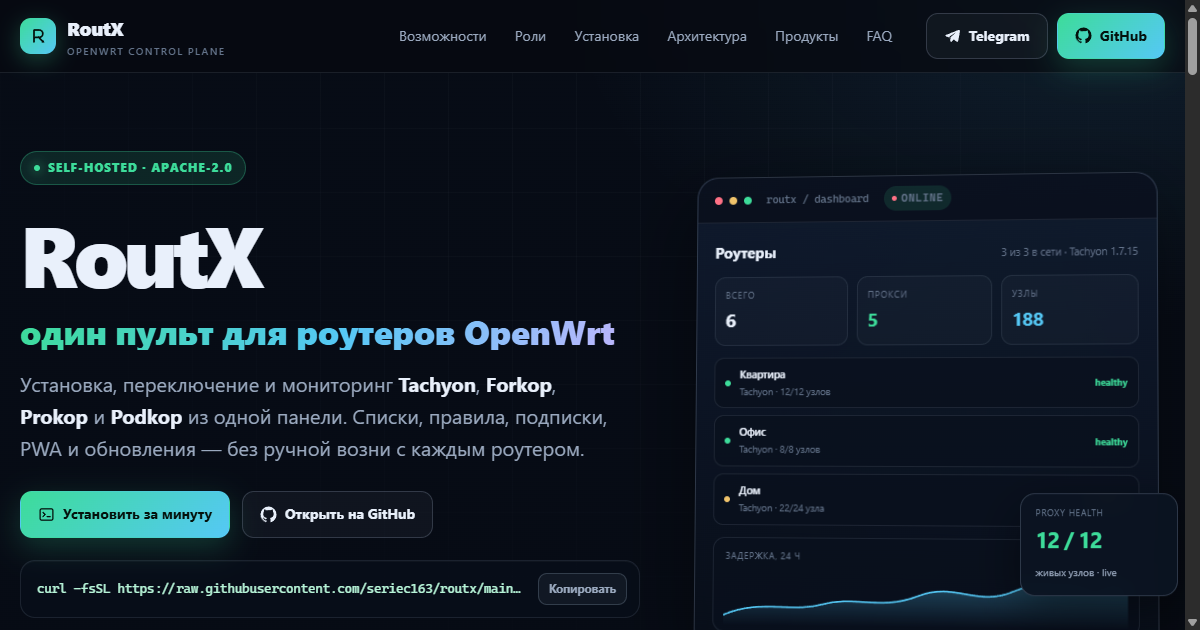
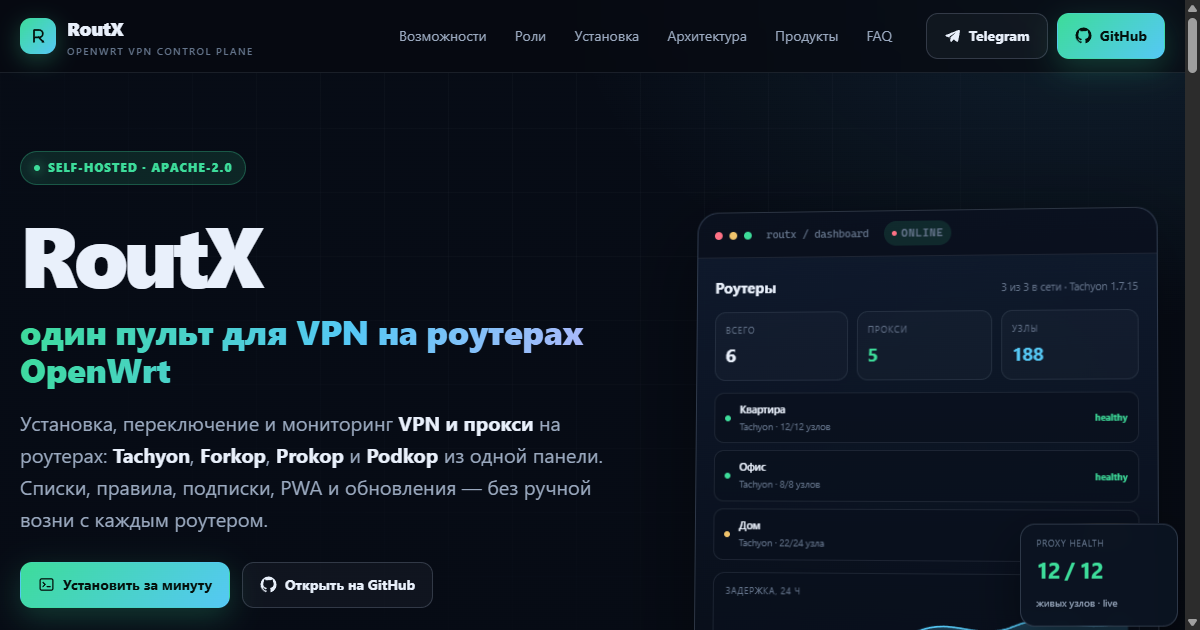
Clarify that RoutX manages VPN on routers, not the routers themselves
Update README, landing page, architecture docs, package/manifest descriptions, hero artwork and the LuCI agent subtitle. Add an explicit scope note: RoutX manages the VPN/proxy product, rules, lists, subscriptions and agent; OpenWrt firmware, network, firewall and LuCI remain outside the panel.

diff --git a/docs/index.html b/docs/index.html
@@ -4,14 +4,14 @@
     <meta charset="utf-8" />
     <meta name="viewport" content="width=device-width, initial-scale=1" />
     <meta name="theme-color" content="#05080f" />
-    <title>RoutX — панель управления роутерами OpenWrt</title>
+    <title>RoutX — управление VPN на роутерах OpenWrt</title>
     <meta
       name="description"
-      content="RoutX — self-hosted панель для роутеров OpenWrt: Tachyon, Forkop, Prokop и Podkop. Установка одной командой, 143 списка, правила, мониторинг, три уровня доступа, PWA и обновления с откатом."
+      content="RoutX — self-hosted панель управления VPN и прокси на роутерах OpenWrt: Tachyon, Forkop, Prokop и Podkop. Установка одной командой, 143 списка, правила, мониторинг, три уровня доступа, PWA и обновления с откатом."
     />
     <meta
       name="keywords"
-      content="RoutX, OpenWrt, Tachyon, Forkop, Prokop, Podkop, sing-box, панель управления роутерами, VPN, прокси, self-hosted, PWA"
+      content="RoutX, OpenWrt, Tachyon, Forkop, Prokop, Podkop, sing-box, управление VPN на роутерах, VPN, прокси, self-hosted, PWA"
     />
     <link rel="canonical" href="https://seriec163.github.io/routx/" />
     <link rel="icon" href="assets/favicon.svg" type="image/svg+xml" />
@@ -20,18 +20,18 @@
     <meta property="og:type" content="website" />
     <meta property="og:locale" content="ru_RU" />
     <meta property="og:site_name" content="RoutX" />
-    <meta property="og:title" content="RoutX — панель управления роутерами OpenWrt" />
+    <meta property="og:title" content="RoutX — управление VPN на роутерах OpenWrt" />
     <meta
       property="og:description"
-      content="Tachyon, Forkop, Prokop и Podkop в одном центре управления. Установка одной командой, списки, правила, мониторинг и PWA."
+      content="VPN и прокси на роутерах OpenWrt в одном центре управления: Tachyon, Forkop, Prokop и Podkop. Установка одной командой, списки, правила, мониторинг и PWA."
     />
     <meta property="og:url" content="https://seriec163.github.io/routx/" />
     <meta property="og:image" content="https://seriec163.github.io/routx/assets/og.png" />
     <meta name="twitter:card" content="summary_large_image" />
-    <meta name="twitter:title" content="RoutX — панель управления роутерами OpenWrt" />
+    <meta name="twitter:title" content="RoutX — управление VPN на роутерах OpenWrt" />
     <meta
       name="twitter:description"
-      content="Tachyon, Forkop, Prokop и Podkop в одном центре управления. Установка одной командой, списки, правила, мониторинг и PWA."
+      content="VPN и прокси на роутерах OpenWrt в одном центре управления: Tachyon, Forkop, Prokop и Podkop. Установка одной командой, списки, правила, мониторинг и PWA."
     />
     <meta name="twitter:image" content="https://seriec163.github.io/routx/assets/og.png" />
 
@@ -42,7 +42,7 @@
         "name": "RoutX",
         "applicationCategory": "NetworkApplication",
         "operatingSystem": "Linux",
-        "description": "Self-hosted панель управления роутерами OpenWrt: Tachyon, Forkop, Prokop, Podkop, списки, правила, мониторинг и PWA.",
+        "description": "Self-hosted панель управления VPN и прокси на роутерах OpenWrt: Tachyon, Forkop, Prokop, Podkop, списки, правила, мониторинг и PWA.",
         "url": "https://seriec163.github.io/routx/",
         "downloadUrl": "https://github.com/seriec163/routx",
         "license": "https://www.apache.org/licenses/LICENSE-2.0",
@@ -121,7 +121,7 @@
           </span>
           <span>
             RoutX
-            <span class="brand-sub">OpenWrt control plane</span>
+            <span class="brand-sub">OpenWrt VPN control plane</span>
           </span>
         </a>
 
@@ -159,13 +159,14 @@
             <h1>
               RoutX
               <span class="gradient-text" style="display: block; font-size: 0.4em; letter-spacing: -0.02em; margin-top: 10px">
-                один пульт для роутеров OpenWrt
+                один пульт для VPN на роутерах OpenWrt
               </span>
             </h1>
             <p class="hero-lead">
-              Установка, переключение и мониторинг <strong>Tachyon</strong>, <strong>Forkop</strong>,
-              <strong>Prokop</strong> и <strong>Podkop</strong> из одной панели. Списки, правила,
-              подписки, PWA и обновления — без ручной возни с каждым роутером.
+              Установка, переключение и мониторинг <strong>VPN и прокси</strong> на роутерах:
+              <strong>Tachyon</strong>, <strong>Forkop</strong>, <strong>Prokop</strong> и
+              <strong>Podkop</strong> из одной панели. Списки, правила, подписки, PWA и обновления —
+              без ручной возни с каждым роутером.
             </p>
 
             <div class="hero-actions">
@@ -267,7 +268,7 @@
         <div class="container">
           <div class="section-head reveal">
             <span class="section-kicker">Возможности</span>
-            <h2>Всё управление роутерами — в одном месте</h2>
+            <h2>Всё управление VPN на роутерах — в одном месте</h2>
             <p>
               RoutX закрывает путь от установки агента до тонкой настройки правил и наблюдения за
               каждым узлом. Не нужно помнить CLI-команды и держать открытыми десять вкладок.
@@ -278,7 +279,7 @@
             <article class="feature-card reveal">
               <div class="feature-icon"><svg aria-hidden="true"><use href="#i-grid"></use></svg></div>
               <h3>Единый центр управления</h3>
-              <p>Все роутеры, продукты, версии, статусы и владельцы в одной панели. Фильтры и быстрый переход к нужному узлу.</p>
+              <p>Все VPN-подключения, продукты, версии и статусы роутеров в одной панели. Фильтры и быстрый переход к нужному узлу.</p>
               <span class="tag">multi-router</span>
             </article>
             <article class="feature-card reveal">
@@ -602,7 +603,7 @@ sudo ./scripts/routx</pre>
             </a>
             <a class="product-card reveal" href="https://github.com/seriec163/routx" target="_blank" rel="noreferrer">
               <div class="p-top"><h3>RoutX</h3><span class="ext">↗</span></div>
-              <p>Эта панель управления роутерами.</p>
+              <p>Панель управления VPN и прокси на роутерах.</p>
               <span class="p-tag">Apache-2.0</span>
             </a>
           </div>
@@ -617,6 +618,14 @@ sudo ./scripts/routx</pre>
           </div>
 
           <div class="faq reveal">
+            <details>
+              <summary>RoutX управляет самим роутером?</summary>
+              <p>
+                Нет. RoutX управляет <strong>VPN/прокси-продуктом на роутере</strong>: установкой
+                Tachyon, Forkop, Prokop или Podkop, версиями, правилами, списками, подписками,
+                агентом и мониторингом. Прошивка, сеть, firewall и LuCI остаются вне панели.
+              </p>
+            </details>
             <details>
               <summary>Откуда роутер скачивает агента RoutX?</summary>
               <p>
@@ -709,7 +718,7 @@ sudo ./scripts/routx</pre>
             <a href="https://t.me/unc1escrooge" target="_blank" rel="noreferrer">Telegram</a>
           </div>
           <div class="footer-note">
-            <span>RoutX · OpenWrt control plane · Tachyon / Forkop / Prokop / Podkop</span>
+            <span>RoutX · OpenWrt VPN control plane · Tachyon / Forkop / Prokop / Podkop</span>
             <span>© <span id="year">2026</span> seriec163</span>
           </div>
         </div>

diff --git a/agent/files/www/luci-static/resources/view/routx/status.js b/agent/files/www/luci-static/resources/view/routx/status.js
@@ -458,7 +458,7 @@ return view.extend({
 		const productVersion = st.product_version || '';
 		r.sub.textContent = product
 			? productLabel(product) + (productVersion ? ' ' + productVersion : '') + ' · агент ' + (st.agent_version || '?')
-			: 'Агент управления роутером';
+			: 'Агент VPN на роутере';
 
 		this.setServer(r.server, st.server || '');
 		this.setValue(r.router, st.router_id ? String(st.router_id) : '—', productLabel(product));
@@ -785,7 +785,7 @@ return view.extend({
 
 		const orb = E('div', { 'class': 'jn-orb jn-muted' });
 		const badge = E('span', { 'class': 'jn-badge jn-muted' }, 'Проверка…');
-		const sub = E('div', { 'class': 'jn-sub' }, 'Агент управления роутером');
+		const sub = E('div', { 'class': 'jn-sub' }, 'Агент VPN на роутере');
 
 		const hero = E('div', { 'class': 'jn-hero' }, [
 			orb,

diff --git a/docs/architecture/ARCHITECTURE.md b/docs/architecture/ARCHITECTURE.md
@@ -9,11 +9,11 @@
 
 ### 1.1. Цель
 
-Централизованно управлять парком роутеров OpenWrt с установленным **Forkop или Prokop**: хранить шаблоны конфигурации, применять их с подтверждением и откатом, следить за здоровьем, запускать диагностику и управлять версиями sing-box — не переустанавливая и не заменяя продукт на роутере.
+Централизованно управлять **VPN и прокси на парке роутеров OpenWrt** с установленным **Tachyon, Forkop, Prokop или Podkop**: устанавливать и переключать продукт, хранить шаблоны конфигурации, применять их с подтверждением и откатом, следить за здоровьем, запускать диагностику и управлять версиями sing-box. Самим роутером, его прошивкой и сетью RoutX не управляет.
 
 ### 1.2. Не цели v1
 
-* Установка, переустановка, удаление, сброс Forkop/Prokop.
+* Управление прошивкой OpenWrt, сетью, firewall, DHCP/DNS и другими настройками роутера вне VPN-продукта.
 * Управление серверным (inbound) режимом Forkop, Reality-ключами, inbound-секретами.
 * Управление killswitch, autotune, уведомлениями, TorrServer, профилями/экспериментами.
 * Произвольный shell/SSH на роутере, входящие соединения к роутеру.
